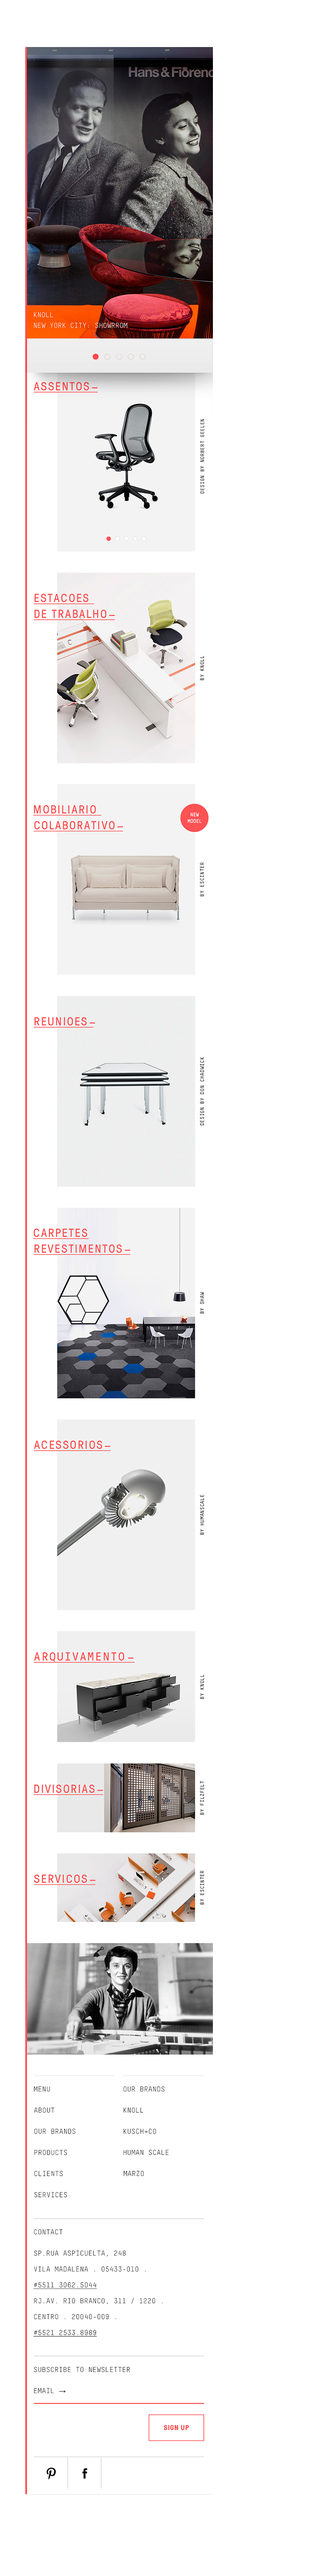
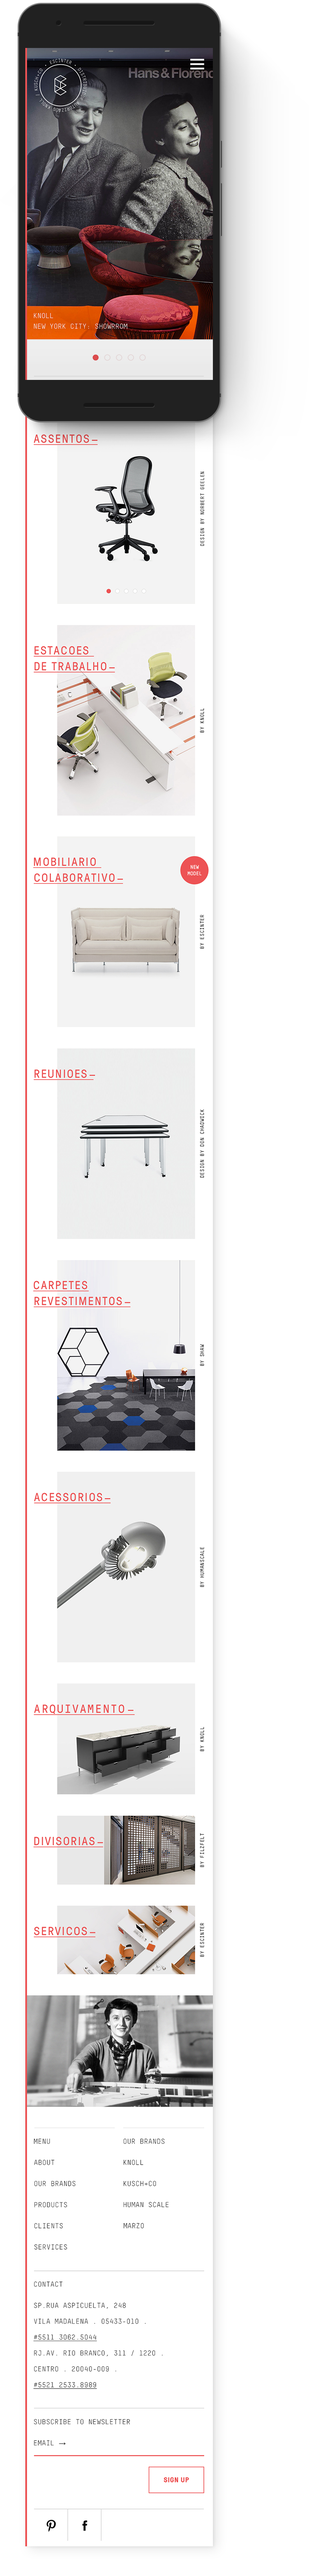
simple sticky in chess list

diff --git a/src/sections/escinter/index.js b/src/sections/escinter/index.js
@@ -9,7 +9,6 @@ import video from './media/video.mp4';
 import logo from './media/logo.svg';
 import mockup from './media/mockup.jpg';
 import siteMap from './media/site-map.png';
-import device from '../../components/device-simulator/media/android-header.png';
 import homePage from './media/home-page.png';
 import products from './media/products.png';
 import productsDetail from './media/products-detail.png';
@@ -69,23 +68,18 @@ function Section() {
       <div className="work-step work-step--ect02">
         <div className="container">
           <h3 className="work-step__title">Web Mobile</h3>
-          <ul className="chess-list chess-list--align-top">
+          <ul className="chess-list">
             <li>
-              <div className="chess-list__info chess-list__info--test">
+              <div className="chess-list__info chess-list__info--sticky">
                 <h4 className="chess-list__title">Home Page</h4>
                 <p>A página inicial primeiramente exibe um slideshow com as principais ofertas do momento, e abaixo as categorias dos produtos. Ao final é apresentado o endereço, campo para se inscrever na newsletter e acesso as redes sociais. </p>
               </div>
               <div>
-                <div className="device-simulator">
-                  <img className="device-simulator__page" src={homePage} alt="Home Page" />
-                  <div className="device-simulator__device-container">
-                    <img className="device-simulator__device" src={device} alt="" />
-                  </div>
-                </div>
+                <img src={homePage} alt="Home Page" />
               </div>
             </li>
             <li>
-              <div className="chess-list__info">
+              <div className="chess-list__info chess-list__info--sticky">
                 <h4 className="chess-list__title">Products</h4>
                 <p>A página permite que o usuário veja vários modelos ao mesmo tempo, agilizando assim sua busca. É possível filtrar por categoria.</p>
               </div>
@@ -94,7 +88,7 @@ function Section() {
               </div>
             </li>
             <li>
-              <div className="chess-list__info">
+              <div className="chess-list__info chess-list__info--sticky">
                 <h4 className="chess-list__title">Products Detail</h4>
                 <p>Nessa página é possivel conhecer melhor a história e o designer da peça, ver fotos de diferentes ângulos e ter acesso a todos os dados, como dimensões e detalhes de fabricação.</p>
               </div>
@@ -103,7 +97,7 @@ function Section() {
               </div>
             </li>
             <li>
-              <div className="chess-list__info">
+              <div className="chess-list__info chess-list__info--sticky">
                 <h4 className="chess-list__title">Contact</h4>
                 <p>O site disponibiliza um formulário simples para entrar em contato. E ainda acesso ao endereço das lojas físicas, por meio do mapa.</p>
               </div>

diff --git a/src/sections/emicida/index.js b/src/sections/emicida/index.js
@@ -79,7 +79,7 @@ function Section() {
         <div className="container">
           <ul className="chess-list chess-list--align-top">
             <li>
-              <div className="chess-list__info">
+              <div className="chess-list__info chess-list__info--sticky">
                 <h4 className="chess-list__title">Home Page</h4>
                 <p>Slideshow de início com os principais destaques do site. Em sequida boxes representando cada área do site. Abaixo as redes sociais do MC.</p>
               </div>
@@ -88,7 +88,7 @@ function Section() {
               </div>
             </li>
             <li>
-              <div className="chess-list__info">
+              <div className="chess-list__info chess-list__info--sticky">
                 <h4 className="chess-list__title">Editorial</h4>
                 <p>Área de conteúdo, onde permite que o artista apresente suas objeções, filosofias  e ideais de vida de forma mais produnda.</p>
               </div>
@@ -97,7 +97,7 @@ function Section() {
               </div>
             </li>
             <li>
-              <div className="chess-list__info">
+              <div className="chess-list__info chess-list__info--sticky">
                 <h4 className="chess-list__title">Biography</h4>
                 <p>Nessa página é possível conhecer melhor sua tragetória de vida, início de carreira e suas influências. Aqui também é exibido os sua equipe de trabalho.</p>
               </div>
@@ -106,7 +106,7 @@ function Section() {
               </div>
             </li>
             <li>
-              <div className="chess-list__info">
+              <div className="chess-list__info chess-list__info--sticky">
                 <h4 className="chess-list__title">Agenda</h4>
                 <p>Exposição de todos os compromissos e shows do rapper. É possível filtrar por mês.</p>
               </div>
@@ -115,7 +115,7 @@ function Section() {
               </div>
             </li>
             <li>
-              <div className="chess-list__info">
+              <div className="chess-list__info chess-list__info--sticky">
                 <h4 className="chess-list__title">Discography</h4>
                 <p>Nessa página é possível conhecer toda sua obra, ter acesso as músicas dos álbuns e acessar as plataformas de compra e streaming.</p>
               </div>
@@ -124,7 +124,7 @@ function Section() {
               </div>
             </li>
             <li>
-              <div className="chess-list__info">
+              <div className="chess-list__info chess-list__info--sticky">
                 <h4 className="chess-list__title">Photos Gallery</h4>
                 <p>Galeria de fotos e vídeos de shows, clipes, e até aquivos pessoais.</p>
               </div>

diff --git a/src/sections/david-yurman/index.js b/src/sections/david-yurman/index.js
@@ -79,7 +79,7 @@ function Section() {
             </div>
           </li>
           <li>
-            <div className="chess-list__info">
+            <div className="chess-list__info chess-list__info--sticky">
               <h4 className="chess-list__title">Explore</h4>
               <p>É possível visualizar vários produtos ao mesmo tempo, além de filtrar pro preço, tamanho, cor e categoria.</p>
             </div>
@@ -88,7 +88,7 @@ function Section() {
             </div>
           </li>
           <li>
-            <div className="chess-list__info">
+            <div className="chess-list__info chess-list__info--sticky">
               <h4 className="chess-list__title">Procuct Detail</h4>
               <p>Na página do produto é exposta imagens bem destacadas, onde é possível visualizar todos os detalhes da peça. Também é exibido as cores disponívels, dimenções, preços e vários outros detalhes.</p>
             </div>
@@ -97,7 +97,7 @@ function Section() {
             </div>
           </li>
           <li>
-            <div className="chess-list__info">
+            <div className="chess-list__info chess-list__info--sticky">
               <h4 className="chess-list__title">Search</h4>
               <p>Busca por produtos com filtros, permitindo uma pesquisa rápida e efeciente.</p>
             </div>
@@ -106,7 +106,7 @@ function Section() {
             </div>
           </li>
           <li>
-            <div className="chess-list__info">
+            <div className="chess-list__info chess-list__info--sticky">
               <h4 className="chess-list__title">Shopping Bag</h4>
               <p>Detalhes de todos os produtos adicionados na bolsa. Com navegação intuitiva o usuário consegue facilmente remover itens ou finalizar comprar.</p>
             </div>
@@ -115,7 +115,7 @@ function Section() {
             </div>
           </li>
           <li>
-            <div className="chess-list__info">
+            <div className="chess-list__info chess-list__info--sticky">
               <h4 className="chess-list__title">Checkout</h4>
               <p>Último passo para compra, página onde o usuário preenche dados pessoais e de pagamento para conclusão da compra.</p>
             </div>

diff --git a/src/components/work-chess-list/index.css b/src/components/work-chess-list/index.css
@@ -23,10 +23,10 @@
     }
   }
 }
-.chess-list__info {
-  max-height: 60vw;
+.chess-list__info--sticky {
   position: sticky;
-  top: 0px;
+  top: 0;
+  height: 100vh 
 }
 .chess-list__title {
   font-size: 45px;
@@ -62,5 +62,9 @@
   .chess-list__info {
     margin-bottom: 20vw;
     max-height: none;
+  }
+  .chess-list__info--sticky {
+    position: relative;
+    height: auto;
   }
 }

diff --git a/src/styles/style.css b/src/styles/style.css
@@ -29,7 +29,6 @@
 @import '../components/work-chess-list';
 @import '../components/work-guideline';
 @import '../components/work-navigation';
-@import '../components/device-simulator';
 @import '../components/two-columns';
 @import '../components/back-to-home';
 @import '../components/back-to-top';

diff --git a/src/sections/david-yurman/index.css b/src/sections/david-yurman/index.css
@@ -32,9 +32,6 @@
   .chess-list img {
     transform: translateX(6.5%);
   }
-  .chess-list__info {
-    max-height: 71vw;
-  }
   .work-guideline__title {
     font-size: 35px;
     font-weight: 100;

diff --git a/src/sections/emicida/index.css b/src/sections/emicida/index.css
@@ -60,9 +60,6 @@
   .chess-list__title:after {
     border-color: var(--mcd-text);
   }
-  .chess-list__info {
-    max-height: 71vw;
-  }
   .work-credits {
     padding-bottom: 100px;
   }
